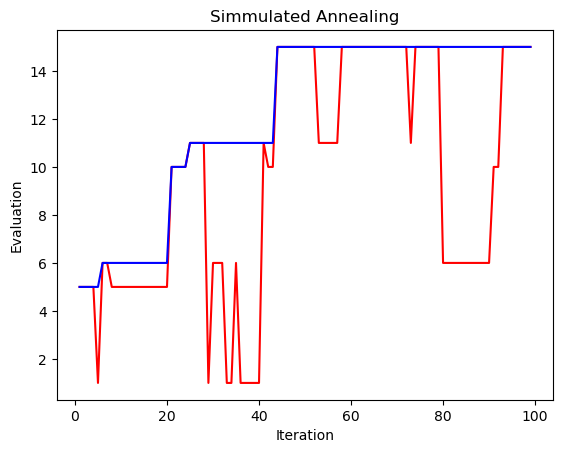
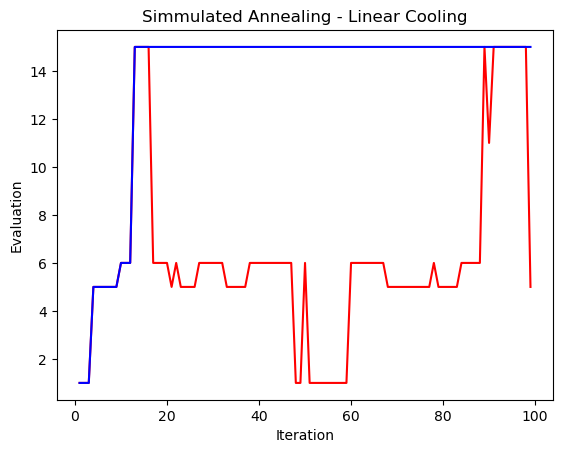
log cooling added

diff --git a/main.py b/main.py
@@ -1,6 +1,6 @@
 import sys
 from matplotlib import pyplot
-from graphs import plot_all, plot_genetic, plot_sa
+from graphs import plot_all, plot_genetic, plot_sa_linear, plot_sa_non_linear
 from src.solution.evaluation import evaluate_solution
 from src.algorithms.genetic import genetic
 from src.algorithms.hill_climbing import hill_climbing_basic_random, hill_climbing_basic, hill_climbing_steepest_ascent
@@ -70,9 +70,11 @@ if __name__ == '__main__':
         if temperature_mode == 'linear':
 
             sol, curr_y_axis, best_y_axis = simulated_annealing(data_center, iterations, initial_temperature, linear_schedule)
-            plot_sa(curr_y_axis, best_y_axis, iterations)
+            plot_sa_linear(curr_y_axis, best_y_axis, iterations)
         else:
-            sol, _ = simulated_annealing(data_center, iterations, initial_temperature, non_linear_schedule)
+            sol, curr_y_axis, best_y_axis = simulated_annealing(data_center, iterations, initial_temperature, non_linear_schedule)
+            plot_sa_non_linear(curr_y_axis, best_y_axis, iterations)
+
     elif algorithm == 'tabu':
         max_tenure = int(sys.argv[4])
         sol, _ = tabu_search(data_center, iterations, neighbour_modes, max_tenure)

diff --git a/graphs.py b/graphs.py
@@ -238,12 +238,22 @@ def plot_all(data_center, iterations, initial_solution, neighbour_modes):
     pyplot.savefig('plots/all_line.png',bbox_inches='tight')
 
 
-def plot_sa(curr_y_axis, best_y_axis, iterations):
+def plot_sa_linear(curr_y_axis, best_y_axis, iterations):
     x_axis = list(range(1, iterations))
     pyplot.plot(x_axis, curr_y_axis, color = "red")
 
     pyplot.plot(x_axis, best_y_axis, color = "blue")
     pyplot.ylabel('Evaluation')
     pyplot.xlabel('Iteration')
-    pyplot.title('Simmulated Annealing')
+    pyplot.title('Simmulated Annealing - Linear Cooling')
     pyplot.savefig('plots/sa_linear.png',bbox_inches='tight')
+
+def plot_sa_non_linear(curr_y_axis, best_y_axis, iterations):
+    x_axis = list(range(1, iterations))
+    pyplot.plot(x_axis, curr_y_axis, color = "red")
+
+    pyplot.plot(x_axis, best_y_axis, color = "blue")
+    pyplot.ylabel('Evaluation')
+    pyplot.xlabel('Iteration')
+    pyplot.title('Simmulated Annealing - Logarithmical cooling ')
+    pyplot.savefig('plots/sa_log.png',bbox_inches='tight')

diff --git a/src/algorithms/simulated_annealing.py b/src/algorithms/simulated_annealing.py
@@ -1,5 +1,6 @@
 from math import exp
 from typing import ByteString
+from cv2 import log
 
 from numpy.random import rand
 
@@ -25,7 +26,7 @@ def simulated_annealing(config: DataCenter, iterations: int, init_temp, schedule
     
     temp = init_temp
     for i in range(iterations - 1):
-        temp = schedule_function(init_temp, iterations, temp)
+        temp = schedule_function(init_temp, iterations, i, temp)
         # new solution
         new_sol = get_random_neighbour(curr, config)
         while(evaluate_solution(new_sol, config)==0):
@@ -49,9 +50,9 @@ def simulated_annealing(config: DataCenter, iterations: int, init_temp, schedule
     return best, curr_evals, best_evals
 
 
-def non_linear_schedule(init_temp, iterations, temp):
-    return temp / 1.05
+def non_linear_schedule(init_temp, iterations,i, temp):
+    print(temp)
+    return init_temp * (0.96**i) 
 
-
-def linear_schedule(init_temp, iterations, temp):
+def linear_schedule(init_temp, iterations,i, temp):
     return temp - init_temp / iterations
